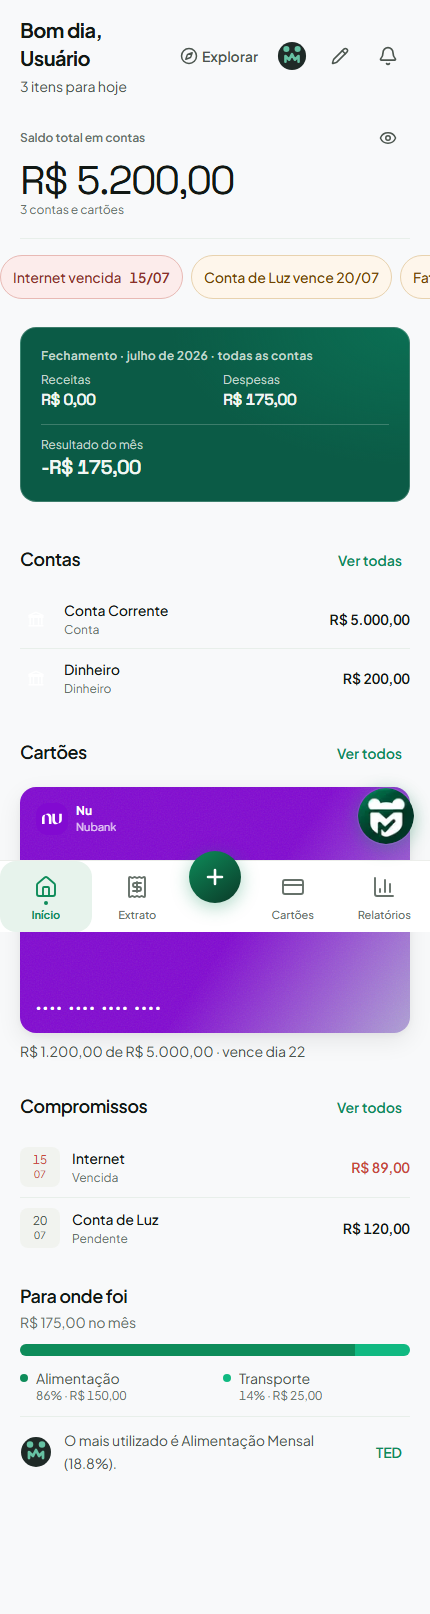
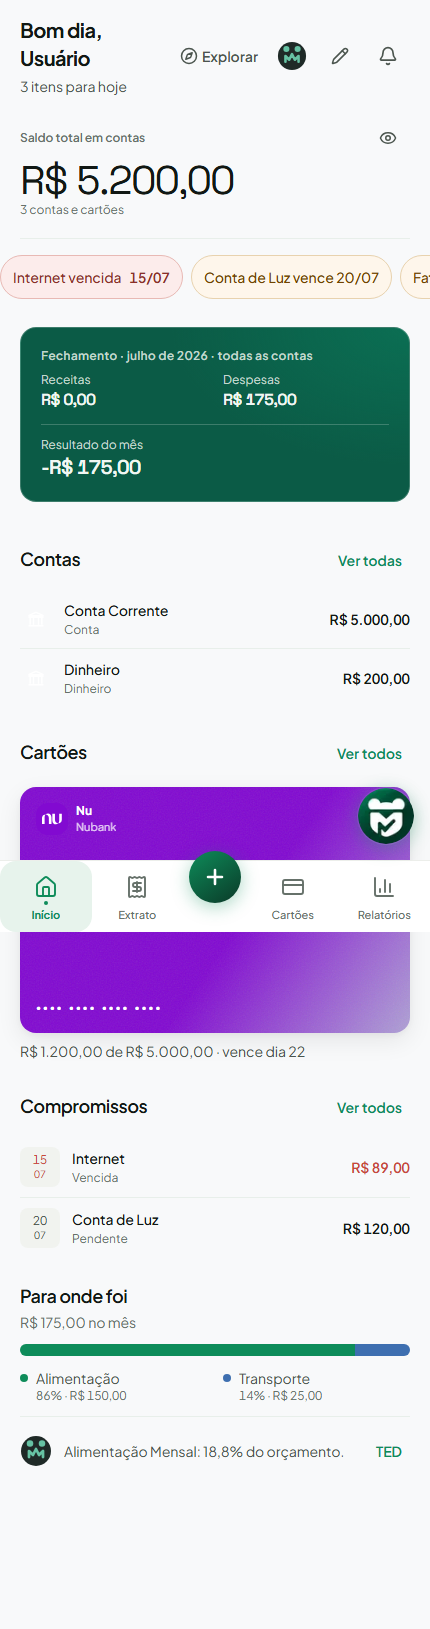
docs(design): refresh visual audit after review

diff --git a/docs/design/v2-audit/REPORT-FINAL.md b/docs/design/v2-audit/REPORT-FINAL.md
@@ -7,3 +7,13 @@ como `role="button"` com `aria-label="Abrir Nubank em Cartões"` (que também
 corresponde ao nome acessível parcial “Cartões”) e o botão “Cartões” da
 BottomNav. O teste foi corrigido para clicar somente no botão exato dentro de
 `nav[data-nav="bottom"]`; nenhum rótulo ou comportamento do produto foi alterado.
+
+## Correções após revisão visual
+
+- Arte de cartões limitada a 440px na lista/detalhe e 360px na Home; proporção preservada.
+- Metadados da lista usam `min-w-0`, emissor sem shrink e data truncável.
+- Segmentos de categoria agora alternam `primary`, `info`, `warning`, `accent-money` e `surface-3`.
+- Insight de orçamento explicita o denominador: “Alimentação Mensal: 18,8% do orçamento.”
+- Chips mantêm carrossel mobile e quebram em múltiplas linhas a partir de `lg`.
+- Home, Extrato e Cartões reservam espaço inferior mobile ao launcher, com `lg:pb-0`.
+- CARD-09 agora valida “Disponível R$ 3.000,00”; capturas foram revalidadas em 375, 768 e 1440px.

diff --git a/docs/design/v2-audit/after/INDEX.md b/docs/design/v2-audit/after/INDEX.md
@@ -55,4 +55,4 @@ Full-page screenshots; home-viewport is viewport-only. Home section checks are r
 | light | 375 | login | `/` | ok |  |
 | dark | 375 | login | `/` | ok |  |
 
-Distinct screenshot SHA-256 values: 41
+Distinct screenshot SHA-256 values: 43
